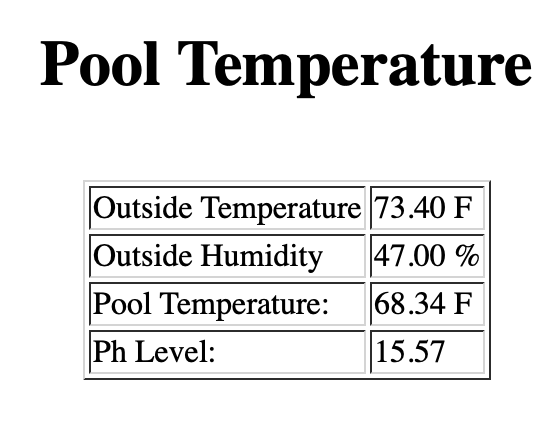
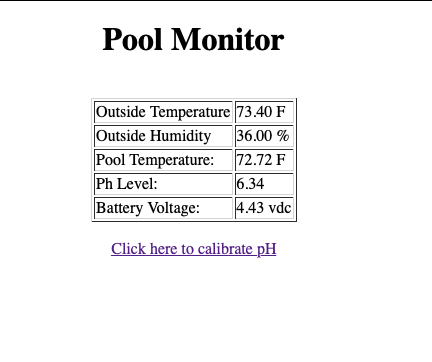
#1 updated web ui pictures and read me file

Changed region(s): [[0.1505, 0.2735, 0.9028, 0.9116], [0.0602, 0.0608, 0.963, 0.2431]]

diff --git a/README.md b/README.md
@@ -50,6 +50,10 @@ There is nothing much to the web ui, it will just display the outside temperatur
 
 ![](pictures/webui.png)
 
+pH Calibration Page
+
+![](pictures/webui_cal.png)
+
 ## End Product
 
 Version 2 of the finished project:
